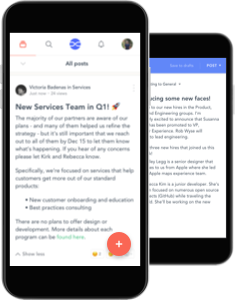
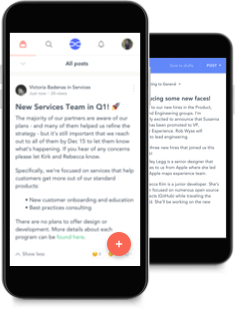
Last Ryan feedback on marketing site.

diff --git a/scss/partials/_shared_misc.scss b/scss/partials/_shared_misc.scss
@@ -4,7 +4,6 @@ div.main-animation-container {
   @include mobile() {
     width: 100%;
     margin: 80px 0px 0px;
-    height: 237px;
   }
 
   img.main-animation {
@@ -16,11 +15,10 @@ div.main-animation-container {
     position: relative;
 
     @include mobile() {
-      width: 400px;
-      height: 237px;
-      position: absolute;
-      right: 0px;
-      margin: 0px;
+      width: 100%;
+      height: auto;
+      margin: 0px auto;
+      max-width: 327px;
     }
   }
 }
@@ -271,9 +269,10 @@ section.keep-aligned {
 
     @include mobile() {
       @include avenir_H();
-      font-size: 24px;
-      line-height: 30px;
+      font-size: 22px;
+      line-height: 26px;
       margin-bottom: 24px;
+      text-align: center;
     }
   }
 
@@ -301,7 +300,7 @@ div.core-values-list {
   margin: 10px auto 0px;
 
   @include mobile() {
-    width: 100%;
+    width: 251px;
     margin: 24px auto 0px;
   }
 
@@ -489,7 +488,12 @@ section.home-keep-aligned {
           font-size: 18px;
           line-height: 22px;
           color: $deep_navy;
-          margin-top: 8px;
+          margin-top: 12px;
+
+          @include mobile() {
+            padding-top: 12px;
+            border-top: 1px solid #E3E4E2;
+          }
 
           &:before {
             position: absolute;
@@ -502,6 +506,10 @@ section.home-keep-aligned {
             content: "";
             width: 16px;
             height: 16px;
+
+            @include mobile() {
+              top: 14px;
+            }
           }
         }
       }
@@ -599,6 +607,8 @@ section.access-anywhere-section {
 
         @include mobile(){
           font-size: 24px;
+          line-height: 30px;
+          text-align: center;
         }
       }
 
@@ -609,7 +619,9 @@ section.access-anywhere-section {
         color: $deep_navy;
 
         @include mobile(){
-          font-size: 17px;
+          text-align: center;
+          max-width: 294px;
+          margin: 6px auto 0px;
         }
       }
     }
@@ -657,6 +669,7 @@ section.slack-comparison {
     @include mobile(){
       font-size: 20px;
       line-height: 30px;
+      margin-top: 24px;
     }
   }
 

diff --git a/scss/partials/_slack.scss b/scss/partials/_slack.scss
@@ -16,7 +16,7 @@ button.signin-with-slack {
   @include mobile(){
     width: 100%;
     // max-width: 280px;
-    margin: 16px auto;
+    margin: 24px auto 16px;
     font-size: 18px;
   }
 
@@ -102,7 +102,7 @@ div.slack-wrap {
     }
 
     section.carrot-plus-slack {
-      padding-top: 72px;
+      padding-top: 184px;
       padding-bottom: 120px;
       text-align: center;
       position: relative;
@@ -110,7 +110,7 @@ div.slack-wrap {
 
       @include tablet() {
         overflow: visible;
-        padding: 120px 24px;
+        padding: 152px 24px 80px;
       }
 
       div.balloon {
@@ -241,7 +241,7 @@ div.slack-wrap {
 
         @include tablet(){
           width: 100%;
-          margin: 16px auto 0;
+          margin: 24px auto 0;
           padding: 0px;
           font-size: 17px;
           line-height: 23px;

diff --git a/scss/partials/_home_page.scss b/scss/partials/_home_page.scss
@@ -107,8 +107,8 @@ div.home-wrap {
 
         @include mobile(){
           text-align: left;
-          font-size: 24px;
-          line-height: 30px;
+          font-size: 34px;
+          line-height: 40px;
         }
       }
 
@@ -124,10 +124,11 @@ div.home-wrap {
 
         @include mobile(){
           margin-top: 16px;
-          font-size: 17px;
+          font-size: 18px;
           line-height: 23px;
           padding: 0px;
           text-align: left;
+          color: $deep_navy;
         }
       }
 
